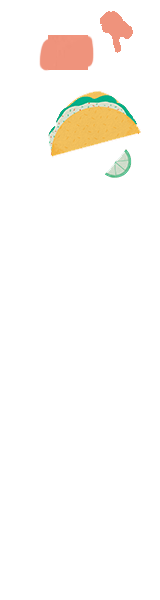
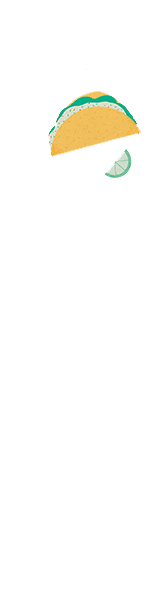
bringing taco back in

Changed region(s): [[0.25, 0.06, 0.5938, 0.12], [0.625, 0.0, 0.8438, 0.09]]

diff --git a/CAM/cam_FR-CA/cam_160x600_fr-ca/Animation.js b/CAM/cam_FR-CA/cam_160x600_fr-ca/Animation.js
@@ -45,30 +45,29 @@ home_animation = (function() {
 	
 		TweenLite.to(product_text, 0, {scaleX:.95, scaleY:.95});
 		TweenLite.to(bg, 0, {scaleX:1.1, scaleY:1.1});
-		// TweenLite.to(tacoLime, 0, {top:-2, scaleX:1.1, scaleY:1.1});		
+		TweenLite.to(tacoLime, 0, {top:-2});		
 
 		frame1();
 
 	}
 	
 
-		
 	function frame1()
 	{
-		TweenLite.to(first_text, 2, {opacity:0, top:-300, delay: 2});
-		TweenLite.to(product_text, 1, {top:21, left:-72, scaleX:.70, scaleY:.70, delay:2});		
-		TweenLite.to(bg, 1, {top:-20, scaleX:1, scaleY:1, delay:2});		
-		// TweenLite.to(tacoLime, .95, {opacity:1, top:-40, scaleX:.8, scaleY:.8, delay:2, ease: Expo.easeOut});
-		TweenLite.delayedCall(2, frame2);
+		TweenLite.to(first_text, 1.4, {opacity:0, top:-300, delay: 3});
+		TweenLite.to(product_text, .6, {top:21, left:-72, scaleX:.70, scaleY:.70, delay:3});		
+		TweenLite.to(bg, .8, {top:-20, scaleX:1, scaleY:1, delay:3});		
+		TweenLite.to(tacoLime, .95, {opacity:1, top:-40, scaleX:.8, scaleY:.8, delay:3, ease: Expo.easeOut});
+		TweenLite.delayedCall(3, frame2);
 	}
 	
 	function frame2()
 	{
 		// slide up white bg
-		TweenLite.to(white_BG, 1, {top:420});
-		TweenLite.to(logo, 1, {opacity:1, delay:1.5});		
-		TweenLite.to(second_text, 3, {opacity:1, delay:1, ease: Expo.easeOut});		
-		TweenLite.to(third_text, 5, {opacity:1, delay:2.6, ease: Expo.easeOut});	
+		TweenLite.to(white_BG, .6, {top:420});
+		TweenLite.to(logo, 1, {opacity:1, delay:.8});		
+		TweenLite.to(second_text, 3, {opacity:1, delay:1.4, ease: Expo.easeOut});		
+		TweenLite.to(third_text, 4, {opacity:1, delay:2.6, ease: Expo.easeOut});	
 		TweenLite.delayedCall(4.5, frame3);	
 	}
 	

diff --git a/CAM/cam_NL-NL/cam_160x600_nl-nl/Animation.js b/CAM/cam_NL-NL/cam_160x600_nl-nl/Animation.js
@@ -45,7 +45,7 @@ home_animation = (function() {
 	
 		TweenLite.to(product_text, 0, {scaleX:.95, scaleY:.95});
 		TweenLite.to(bg, 0, {scaleX:1.1, scaleY:1.1});
-		// TweenLite.to(tacoLime, 0, {top:-2, scaleX:1.1, scaleY:1.1});		
+		TweenLite.to(tacoLime, 0, {top:-2, scaleX:1.1, scaleY:1.1});		
 
 		frame1();
 
@@ -56,7 +56,7 @@ home_animation = (function() {
 		TweenLite.to(first_text, 1.4, {opacity:0, top:-300, delay: 3});
 		TweenLite.to(product_text, .6, {top:21, left:-72, scaleX:.70, scaleY:.70, delay:3});		
 		TweenLite.to(bg, .8, {top:-20, scaleX:1, scaleY:1, delay:3});		
-		// TweenLite.to(tacoLime, .95, {opacity:1, top:-40, scaleX:.8, scaleY:.8, delay:3, ease: Expo.easeOut});
+		TweenLite.to(tacoLime, .95, {opacity:1, top:-40, scaleX:.8, scaleY:.8, delay:3, ease: Expo.easeOut});
 		TweenLite.delayedCall(3, frame2);
 	}
 	

diff --git a/CAM/cam_EN-US-QZ-A/cam_160x600_en-us_vA/Animation.js b/CAM/cam_EN-US-QZ-A/cam_160x600_en-us_vA/Animation.js
@@ -45,7 +45,7 @@ home_animation = (function() {
 	
 		TweenLite.to(product_text, 0, {scaleX:.95, scaleY:.95});
 		TweenLite.to(bg, 0, {scaleX:1.1, scaleY:1.1});
-		// TweenLite.to(tacoLime, 0, {top:-2, scaleX:1.1, scaleY:1.1});		
+		TweenLite.to(tacoLime, 0, {top:-2});		
 
 		frame1();
 
@@ -56,7 +56,7 @@ home_animation = (function() {
 		TweenLite.to(first_text, 1.4, {opacity:0, top:-300, delay: 3});
 		TweenLite.to(product_text, .6, {top:21, left:-72, scaleX:.70, scaleY:.70, delay:3});		
 		TweenLite.to(bg, .8, {top:-20, scaleX:1, scaleY:1, delay:3});		
-		// TweenLite.to(tacoLime, .95, {opacity:1, top:-40, scaleX:.8, scaleY:.8, delay:3, ease: Expo.easeOut});
+		TweenLite.to(tacoLime, .95, {opacity:1, top:-40, scaleX:.8, scaleY:.8, delay:3, ease: Expo.easeOut});
 		TweenLite.delayedCall(3, frame2);
 	}
 	

diff --git a/CAM/cam_EN-US-QZ-B/cam_160x600_en-us_vB/Animation.js b/CAM/cam_EN-US-QZ-B/cam_160x600_en-us_vB/Animation.js
@@ -45,7 +45,7 @@ home_animation = (function() {
 	
 		TweenLite.to(product_text, 0, {scaleX:.95, scaleY:.95});
 		TweenLite.to(bg, 0, {scaleX:1.1, scaleY:1.1});
-		// TweenLite.to(tacoLime, 0, {top:-2, scaleX:1.1, scaleY:1.1});		
+		TweenLite.to(tacoLime, 0, {top:-2});		
 
 		frame1();
 
@@ -56,7 +56,7 @@ home_animation = (function() {
 		TweenLite.to(first_text, 1.4, {opacity:0, top:-300, delay: 3});
 		TweenLite.to(product_text, .6, {top:21, left:-72, scaleX:.70, scaleY:.70, delay:3});		
 		TweenLite.to(bg, .8, {top:-20, scaleX:1, scaleY:1, delay:3});		
-		// TweenLite.to(tacoLime, .95, {opacity:1, top:-40, scaleX:.8, scaleY:.8, delay:3, ease: Expo.easeOut});
+		TweenLite.to(tacoLime, .95, {opacity:1, top:-40, scaleX:.8, scaleY:.8, delay:3, ease: Expo.easeOut});
 		TweenLite.delayedCall(3, frame2);
 	}
 	

diff --git a/CAM/cam_FR-FR/cam_160x600_fr-fr/Animation.js b/CAM/cam_FR-FR/cam_160x600_fr-fr/Animation.js
@@ -45,7 +45,7 @@ home_animation = (function() {
 	
 		TweenLite.to(product_text, 0, {scaleX:.95, scaleY:.95});
 		TweenLite.to(bg, 0, {scaleX:1.1, scaleY:1.1});
-		// TweenLite.to(tacoLime, 0, {top:-2, scaleX:1.1, scaleY:1.1});		
+		TweenLite.to(tacoLime, 0, {top:-2});		
 
 		frame1();
 
@@ -58,7 +58,7 @@ home_animation = (function() {
 		TweenLite.to(first_text, 2, {opacity:0, top:-300, delay: 2});
 		TweenLite.to(product_text, 1, {top:21, left:-72, scaleX:.70, scaleY:.70, delay:2});		
 		TweenLite.to(bg, 1, {top:-20, scaleX:1, scaleY:1, delay:2});		
-		// TweenLite.to(tacoLime, .95, {opacity:1, top:-40, scaleX:.8, scaleY:.8, delay:2, ease: Expo.easeOut});
+		TweenLite.to(tacoLime, .95, {opacity:1, top:-40, scaleX:.8, scaleY:.8, delay:3, ease: Expo.easeOut});
 		TweenLite.delayedCall(2, frame2);
 	}
 	

diff --git a/CAM/cam_EN-GB-QZ-A/cam_160x600_en-gb/Animation.js b/CAM/cam_EN-GB-QZ-A/cam_160x600_en-gb/Animation.js
@@ -45,6 +45,7 @@ home_animation = (function() {
 	
 		TweenLite.to(product_text, 0, {scaleX:.95, scaleY:.95});
 		TweenLite.to(bg, 0, {scaleX:1.1, scaleY:1.1});
+		TweenLite.to(tacoLime, 0, {top:-2});		
 
 		frame1();
 
@@ -54,7 +55,8 @@ home_animation = (function() {
 	{
 		TweenLite.to(first_text, 1.4, {opacity:0, top:-300, delay: 3});
 		TweenLite.to(product_text, .6, {top:21, left:-72, scaleX:.70, scaleY:.70, delay:3});		
-		TweenLite.to(bg, .8, {top:-20, scaleX:1, scaleY:1, delay:3});		
+		TweenLite.to(bg, .8, {top:-20, scaleX:1, scaleY:1, delay:3});	
+		TweenLite.to(tacoLime, .95, {opacity:1, top:-40, scaleX:.8, scaleY:.8, delay:3, ease: Expo.easeOut});	
 		TweenLite.delayedCall(3, frame2);
 	}
 	

diff --git a/CAM/cam_EN-US-QZ-A/cam_160x600_en-us_vA/160x600.html b/CAM/cam_EN-US-QZ-A/cam_160x600_en-us_vA/160x600.html
@@ -14,7 +14,7 @@
 <!-- Frame one --> 
 <div id="first_text"><img src="first_text.png"></div>
 <div id="product_text"><img src="product.png"></div>
-<!-- <div id="tacoLime"><img src="tacoLime.png"></div> -->
+<div id="tacoLime"><img src="tacoLime.png"></div>
 <div id="second_text"><img src="second_text.png"></div>
 <div id="third_text"><img src="third_text.png"></div>
 <div id="buy_now_over"><img src="buy_now_over.png"></div>

diff --git a/CAM/cam_EN-US-QZ-B/cam_160x600_en-us_vB/160x600.html b/CAM/cam_EN-US-QZ-B/cam_160x600_en-us_vB/160x600.html
@@ -14,7 +14,7 @@
 <!-- Frame one --> 
 <div id="first_text"><img src="first_text.png"></div>
 <div id="product_text"><img src="product.png"></div>
-<!-- <div id="tacoLime"><img src="tacoLime.png"></div> -->
+<div id="tacoLime"><img src="tacoLime.png"></div>
 <div id="second_text"><img src="second_text.png"></div>
 <div id="third_text"><img src="third_text.png"></div>
 <div id="buy_now_over"><img src="buy_now_over.png"></div>

diff --git a/CAM/cam_FR-CA/cam_160x600_fr-ca/160x600.html b/CAM/cam_FR-CA/cam_160x600_fr-ca/160x600.html
@@ -14,7 +14,7 @@
 <!-- Frame one --> 
 <div id="first_text"><img src="first_text.png"></div>
 <div id="product_text"><img src="product.png"></div>
-<!-- <div id="tacoLime"><img src="tacoLime.png"></div> -->
+<div id="tacoLime"><img src="tacoLime.png"></div>
 <div id="second_text"><img src="second_text.png"></div>
 <div id="third_text"><img src="third_text.png"></div>
 <div id="buy_now_over"><img src="buy_now_over.png"></div>

diff --git a/CAM/cam_FR-FR/cam_160x600_fr-fr/160x600.html b/CAM/cam_FR-FR/cam_160x600_fr-fr/160x600.html
@@ -14,7 +14,7 @@
 <!-- Frame one --> 
 <div id="first_text"><img src="first_text.png"></div>
 <div id="product_text"><img src="product.png"></div>
-<!-- <div id="tacoLime"><img src="tacoLime.png"></div> -->
+<div id="tacoLime"><img src="tacoLime.png"></div>
 <div id="second_text"><img src="second_text.png"></div>
 <div id="third_text"><img src="third_text.png"></div>
 <div id="buy_now_over"><img src="buy_now_over.png"></div>

diff --git a/CAM/cam_NL-NL/cam_160x600_nl-nl/160x600.html b/CAM/cam_NL-NL/cam_160x600_nl-nl/160x600.html
@@ -14,7 +14,7 @@
 <!-- Frame one --> 
 <div id="first_text"><img src="first_text.png"></div>
 <div id="product_text"><img src="product.png"></div>
-<!-- <div id="tacoLime"><img src="tacoLime.png"></div> -->
+<div id="tacoLime"><img src="tacoLime.png"></div>
 <div id="second_text"><img src="second_text.png"></div>
 <div id="third_text"><img src="third_text.png"></div>
 <div id="buy_now_over"><img src="buy_now_over.png"></div>

diff --git a/CAM/cam_EN-GB-QZ-A/cam_160x600_en-gb/160x600.html b/CAM/cam_EN-GB-QZ-A/cam_160x600_en-gb/160x600.html
@@ -15,6 +15,7 @@
 <div id="first_text"><img src="first_text.png"></div>
 <div id="product_text"><img src="product.png"></div>
 <div id="second_text"><img src="second_text.png"></div>
+<div id="tacoLime"><img src="tacoLime.png"></div>
 <div id="third_text"><img src="third_text.png"></div>
 <div id="buy_now_over"><img src="buy_now_over.png"></div>
 <div id="buy_now"><img src="buy_now.png"></div>
